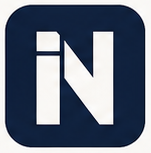
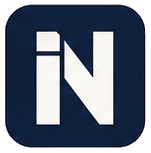
Marca em bronze no tema escuro, e a tela inicial fecha em zero
No escuro o quadrado marinho do símbolo encostava no fundo e a marca sumia —
sobrava um retângulo vazio no canto. O responsável apontou e escolheu entre
cinza e dourado: ficou o **iN em bronze** #C59A5B, que já é cor da marca, a
6,3:1 sobre o azul-marinho da barra. A variante escura larga o quadrado e fica
só com o símbolo.

As duas variantes saíram do ícone do manual, não de um desenho novo: o fundo da
página virou transparente por inundação a partir dos cantos, o que preserva o
branco de dentro das letras, e a versão escura recolore o que era off-white.

A troca é por `display: none`, nunca por opacidade: o que está escondido não
deve ocupar espaço nem ser lido. O componente `MarcaInnovar` carrega as duas e
serve barra, login e portal do cliente — cópia solta de `<Image>` em cada
superfície seria mais uma chance de apontar para o arquivo errado.

O favicon era um ícone de casa inventado, e login e portal desenhavam a letra
"I" num quadrado com gradiente. Os três passam a ser a marca.

Duas correções que o arnês encontrou de passagem, ambas anteriores a esta
mudança: os treze chips de categoria da tela inicial mediam 34px, e o botão
Personalizar e os dois links do cartão em destaque ficavam entre 18 e 40px.
Todos a 44px. A tela inicial fecha agora em 0 alvo pequeno e 0 reprovação de
contraste nos dois temas, com 108 elementos medidos.

O contrato de interface exigia `app/icon.svg` pelo nome e reprovou quando o
[…]

diff --git a/app/globals.css b/app/globals.css
@@ -243,9 +243,6 @@ code, .mono { font-family: "IBM Plex Mono", ui-monospace, SFMono-Regular, Menlo,
   border-radius: 13px;
   display: grid;
   place-items: center;
-  background: linear-gradient(145deg, #245e9a, var(--brand-strong));
-  border: 1px solid rgba(255,255,255,.16);
-  box-shadow: inset 0 1px 0 rgba(255,255,255,.18), 0 10px 24px rgba(0,0,0,.20);
   color: #fff;
   font: 850 13px/1 Manrope, Inter, sans-serif;
   letter-spacing: .08em;
@@ -1293,6 +1290,19 @@ tbody tr:hover { background: #fafcfd; }
   object-fit: contain;
 }
 
+/* A barra é azul-marinho nos dois temas, mas o **entorno** muda; e no escuro o
+   quadrado marinho do símbolo encosta no fundo e some. A variante escura é só
+   o iN em bronze, sem quadrado. */
+.barra-logo-marca.escura { display: none; }
+@media (prefers-color-scheme: dark) {
+  :root:not([data-tema="claro"]) .barra-logo-marca.clara { display: none; }
+  :root:not([data-tema="claro"]) .barra-logo-marca.escura { display: block; }
+}
+:root[data-tema="escuro"] .barra-logo-marca.clara { display: none; }
+:root[data-tema="escuro"] .barra-logo-marca.escura { display: block; }
+:root[data-tema="claro"] .barra-logo-marca.clara { display: block; }
+:root[data-tema="claro"] .barra-logo-marca.escura { display: none; }
+
 .barra-modulo {
   display: inline-flex;
   align-items: center;
@@ -1678,7 +1688,7 @@ tbody tr:hover { background: #fafcfd; }
   display: inline-flex;
   align-items: center;
   gap: 6px;
-  min-height: 38px;
+  min-height: 44px;
   padding: 0 13px;
   border: 1px solid var(--border);
   border-radius: 999px;
@@ -2365,16 +2375,19 @@ tbody tr:hover { background: #fafcfd; }
 .barra-logo-marca {
   border: 0;
   box-shadow: none;
-  /* O símbolo é a imagem do manual; a barra é azul-marinho e o ícone também,
-     então o quadrado ganha o off-white da marca por trás para não sumir. */
   width: 34px;
   min-width: 34px;
   height: 34px;
   border-radius: 9px;
-  background: var(--paper-brand, #f6f4f1);
   object-fit: contain;
+  /* No claro, o quadrado marinho do símbolo encosta na barra marinho. O
+     off-white da marca entra por trás para separar os dois — é a mesma
+     aplicação do manual, símbolo sobre papel. A variante escura não precisa:
+     lá o símbolo é o iN em bronze, sem quadrado. */
+  background: var(--paper-brand, #f6f4f1);
   padding: 2px;
 }
+.barra-logo-marca.escura { background: transparent; padding: 0; }
 
 .barra-logo-nome {
   color: #fff;
@@ -2584,9 +2597,12 @@ tbody tr:hover { background: #fafcfd; }
   scrollbar-width: thin;
 }
 
+/* 44px, e não 34: são treze chips numa fileira que rola, e chip estreito numa
+   fileira rolável é o alvo mais fácil de errar com o polegar. Reprovado pelo
+   arnês em todos os breakpoints antes desta correção. */
 .launcher-filtro {
-  min-height: 34px;
-  padding: 0 13px;
+  min-height: 44px;
+  padding: 0 14px;
   flex: 0 0 auto;
   border: 1px solid var(--border);
   border-radius: 7px;
@@ -2608,7 +2624,7 @@ tbody tr:hover { background: #fafcfd; }
 }
 
 .launcher-personalizar {
-  min-height: 38px;
+  min-height: 44px;
   padding: 0 10px;
   color: var(--text);
   border: 0;
@@ -2725,7 +2741,7 @@ tbody tr:hover { background: #fafcfd; }
 }
 
 .launcher-acessar {
-  min-height: 40px;
+  min-height: 44px;
   margin-top: 20px;
   padding: 0 12px;
   display: flex;
@@ -2777,6 +2793,9 @@ tbody tr:hover { background: #fafcfd; }
   justify-content: space-between;
   color: var(--text);
   font-size: 0.73rem;
+  min-height: 44px;
+  display: inline-flex;
+  align-items: center;
 }
 
 .launcher-grade {
@@ -3612,3 +3631,19 @@ tbody tr:hover { background: var(--surface-muted); }
 .trazer-padroes-aviso { font-size: 0.8rem; }
 .trazer-padroes-aviso.ok { color: var(--text); }
 .trazer-padroes-aviso.erro { color: var(--danger, #b4453c); }
+
+
+/* Marca da Innovar. Uma variante por tema; a que não vale sai por
+   `display: none`, não por opacidade — o que está escondido não deve ocupar
+   espaço nem ser lido. */
+.marca-innovar { display: inline-grid; place-items: center; }
+.marca-innovar img { width: 100%; height: 100%; object-fit: contain; }
+.marca-innovar-escura { display: none; }
+@media (prefers-color-scheme: dark) {
+  :root:not([data-tema="claro"]) .marca-innovar-clara { display: none; }
+  :root:not([data-tema="claro"]) .marca-innovar-escura { display: block; }
+}
+:root[data-tema="escuro"] .marca-innovar-clara { display: none; }
+:root[data-tema="escuro"] .marca-innovar-escura { display: block; }
+:root[data-tema="claro"] .marca-innovar-clara { display: block; }
+:root[data-tema="claro"] .marca-innovar-escura { display: none; }

diff --git a/app/cliente/layout.tsx b/app/cliente/layout.tsx
@@ -1,6 +1,7 @@
 import Link from "next/link";
 import { signOut } from "@/app/actions/auth";
 import { requireClientContext } from "@/lib/auth";
+import { MarcaInnovar } from "@/components/casca/marca";
 
 export const dynamic = "force-dynamic";
 
@@ -21,5 +22,5 @@ const clientNav = [
 
 export default async function ClientLayout({ children }: Readonly<{ children: React.ReactNode }>) {
   const { user, client } = await requireClientContext();
-  return <div className="shell"><aside className="sidebar"><div className="brand"><div className="brand-mark" aria-hidden="true">I</div><div><strong>INNOVAR</strong><small>Portal do cliente</small></div></div><nav className="nav" aria-label="Navegação do cliente">{clientNav.map(([label, href]) => <Link key={href} href={href}><span>{label}</span></Link>)}</nav><div className="sidebar-footer"><strong>{client.trade_name || client.legal_name}</strong><p>{user.email}</p><form action={signOut}><button className="button button-secondary" type="submit">Sair</button></form></div></aside><div className="main"><header className="topbar"><strong>Portal do cliente</strong><span>Conteúdo autorizado pela Innovar</span></header>{children}</div></div>;
+  return <div className="shell"><aside className="sidebar"><div className="brand"><MarcaInnovar className="brand-mark" /><div><strong>INNOVAR</strong><small>Portal do cliente</small></div></div><nav className="nav" aria-label="Navegação do cliente">{clientNav.map(([label, href]) => <Link key={href} href={href}><span>{label}</span></Link>)}</nav><div className="sidebar-footer"><strong>{client.trade_name || client.legal_name}</strong><p>{user.email}</p><form action={signOut}><button className="button button-secondary" type="submit">Sair</button></form></div></aside><div className="main"><header className="topbar"><strong>Portal do cliente</strong><span>Conteúdo autorizado pela Innovar</span></header>{children}</div></div>;
 }

diff --git a/components/casca/barra-superior.tsx b/components/casca/barra-superior.tsx
@@ -31,14 +31,28 @@ export function BarraSuperior({
       <div className="barra-esquerda">
         <Link className="barra-logo" href="/app" title="Tela inicial" aria-label="Ir para a tela inicial de aplicativos">
           {/* Marca real, do manual entregue pelo responsável em 3 de agosto.
+              Duas variantes, porque a barra muda de cor com o tema: no claro o
+              símbolo é o quadrado marinho com o iN em off-white; no escuro o
+              quadrado sumiria contra o fundo, então fica só o **iN em bronze**
+              da marca — a escolha do responsável entre cinza e dourado. As duas
+              são imagem, e a que não vale para o tema em uso sai do DOM
+              acessível por `display: none`, não por opacidade.
               Antes eram as letras "IN" em cobre sobre a barra escura — 2,87:1,
               a única reprovação de contraste que sobrava em toda tela medida.
               O símbolo é imagem, e imagem não tem contraste de texto a cumprir;
               o nome ao lado continua em texto, e é ele que os leitores de tela
               e a busca do navegador encontram. */}
           <Image
-            className="barra-logo-marca"
+            className="barra-logo-marca clara"
             src="/marca/innovar-icone.png"
+            alt=""
+            width={151}
+            height={153}
+            priority
+          />
+          <Image
+            className="barra-logo-marca escura"
+            src="/marca/innovar-icone-escuro.png"
             alt=""
             width={151}
             height={153}

diff --git a/components/casca/marca.tsx b/components/casca/marca.tsx
@@ -1,0 +1,20 @@
+import Image from "next/image";
+
+// A marca da Innovar, nas duas variantes do manual.
+//
+// Existe como componente porque aparece em quatro superfícies com fundos
+// diferentes — barra do aplicativo, login, portal do cliente e favicon — e cada
+// cópia solta do `<Image>` seria uma chance de alguém apontar para o arquivo
+// errado ou esquecer a variante escura.
+//
+// No claro: quadrado marinho com o iN em off-white, como no manual.
+// No escuro: só o **iN em bronze**, sem quadrado. O quadrado marinho encostaria
+// no fundo escuro e o símbolo sumiria — foi o que o responsável apontou.
+export function MarcaInnovar({ className = "", tamanho = 46 }: { className?: string; tamanho?: number }) {
+  return (
+    <span className={`marca-innovar ${className}`.trim()} aria-hidden="true">
+      <Image className="marca-innovar-clara" src="/marca/innovar-icone.png" alt="" width={tamanho} height={tamanho} />
+      <Image className="marca-innovar-escura" src="/marca/innovar-icone-escuro.png" alt="" width={tamanho} height={tamanho} />
+    </span>
+  );
+}

diff --git a/tests/interface-foundation-contract.test.ts b/tests/interface-foundation-contract.test.ts
@@ -172,6 +172,13 @@ describe("S-23 — fundação de interface", () => {
 
     expect(authErrors).toContain("invalid_credentials");
     expect(authErrors).toContain("email_not_confirmed");
-    expect(fs.existsSync(path.join(root, "app/icon.svg"))).toBe(true);
+    // O invariante é **existir ícone de aplicação**, não o formato dele. A
+    // primeira versão fixava `app/icon.svg` e reprovou quando o ícone passou a
+    // ser a marca real em PNG — teste que descreve a implementação em vez da
+    // garantia quebra na melhoria, e é a mesma armadilha já corrigida neste
+    // arquivo no contrato do planejamento.
+    const formatos = ["icon.svg", "icon.png", "icon.ico", "favicon.ico"];
+    const encontrados = formatos.filter(nome => fs.existsSync(path.join(root, "app", nome)));
+    expect(encontrados.length, "nenhum ícone de aplicação em app/").toBeGreaterThan(0);
   });
 });

diff --git a/app/login/page.tsx b/app/login/page.tsx
@@ -1,5 +1,6 @@
 import type { Metadata } from "next";
 import { signIn } from "@/app/actions/auth";
+import { MarcaInnovar } from "@/components/casca/marca";
 
 export const metadata: Metadata = { title: "Entrar" };
 
@@ -14,7 +15,7 @@ export default async function LoginPage({ searchParams }: LoginPageProps) {
     <main className="auth-page">
       <section className="auth-card" aria-labelledby="login-title">
         <div className="brand" style={{ color: "var(--text)" }}>
-          <div className="brand-mark" aria-hidden="true">I</div>
+          <MarcaInnovar className="brand-mark" />
           <div>
             <strong>INNOVAR</strong>
             <small style={{ color: "var(--muted)" }}>Portal seguro</small>

diff --git a/diretrizes/UI-UX-PRO-MAX.md b/diretrizes/UI-UX-PRO-MAX.md
@@ -71,10 +71,22 @@ solidez, sofisticação, inovação e confiança.
 Arquivos em `public/marca/`:
 
 ```text
-innovar-icone.png         símbolo iN em quadrado, para a barra e o favicon
-innovar-icone-grande.png  o mesmo em resolução maior
-innovar-horizontal.png    lockup completo com assinatura, para documento e login
+innovar-icone.png          claro: quadrado marinho, iN em off-white, cantos transparentes
+innovar-icone-escuro.png   escuro: só o iN em bronze, sem quadrado
+innovar-icone-grande.png   o mesmo símbolo em resolução maior
+innovar-horizontal.png     lockup completo com assinatura, para documento e e-mail
 ```
+
+**Duas variantes, e o motivo é físico.** No tema escuro o quadrado marinho do
+símbolo encosta no fundo e desaparece — sobra um retângulo vazio onde deveria
+estar a marca. A variante escura larga o quadrado e fica só com o **iN em
+bronze** `#C59A5B`, que é cor da própria marca: 6,3:1 sobre o azul-marinho da
+barra. Foi escolha do responsável entre cinza e dourado, em 3 de agosto.
+
+A troca é por `display: none`, nunca por opacidade: o que está escondido não
+deve ocupar espaço nem ser lido. O componente `MarcaInnovar` carrega as duas e
+serve barra, login e portal do cliente — cópia solta de `<Image>` em cada
+superfície seria uma chance a mais de alguém apontar para o arquivo errado.
 
 **O símbolo é imagem, não letra.** Até 3 de agosto a barra desenhava as letras
 "IN" em cobre sobre o azul-marinho: 2,87:1, e era a **única reprovação de
